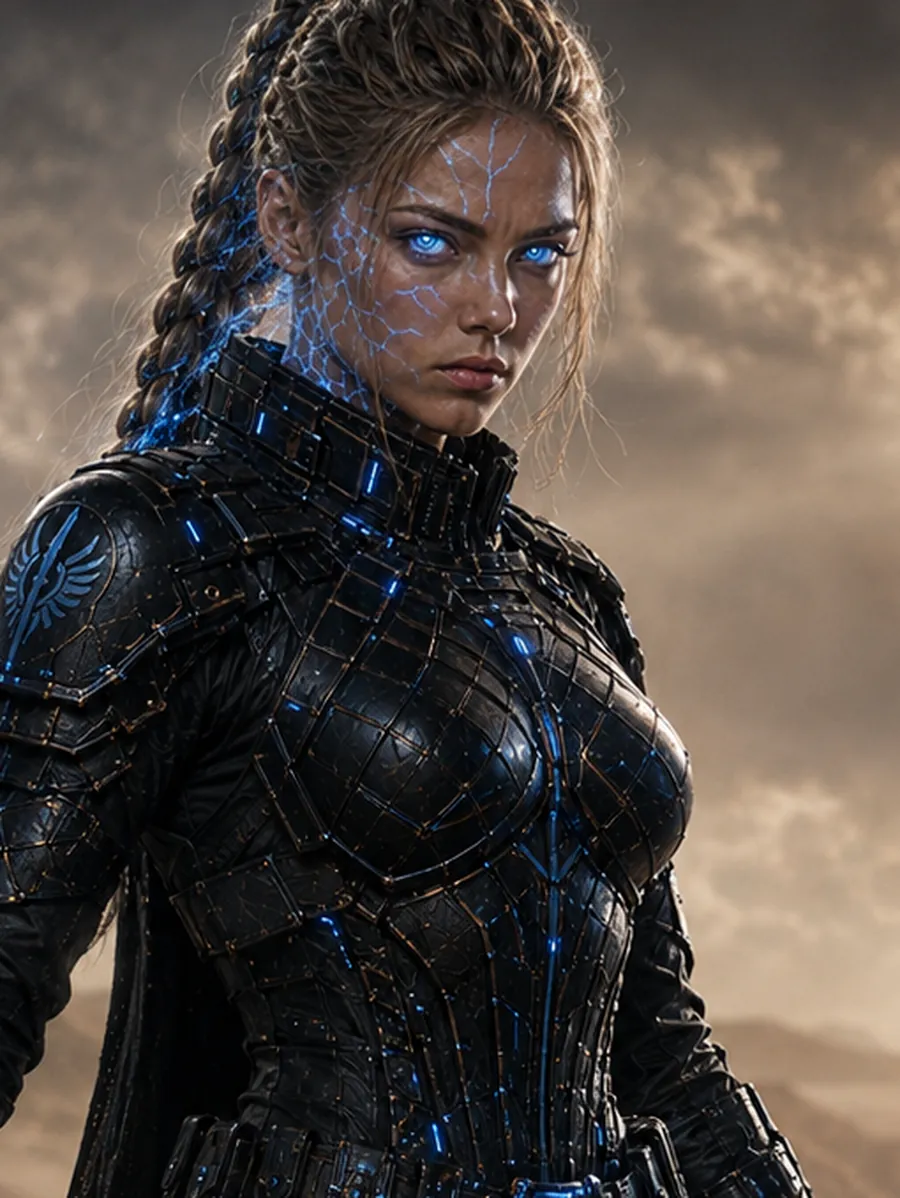
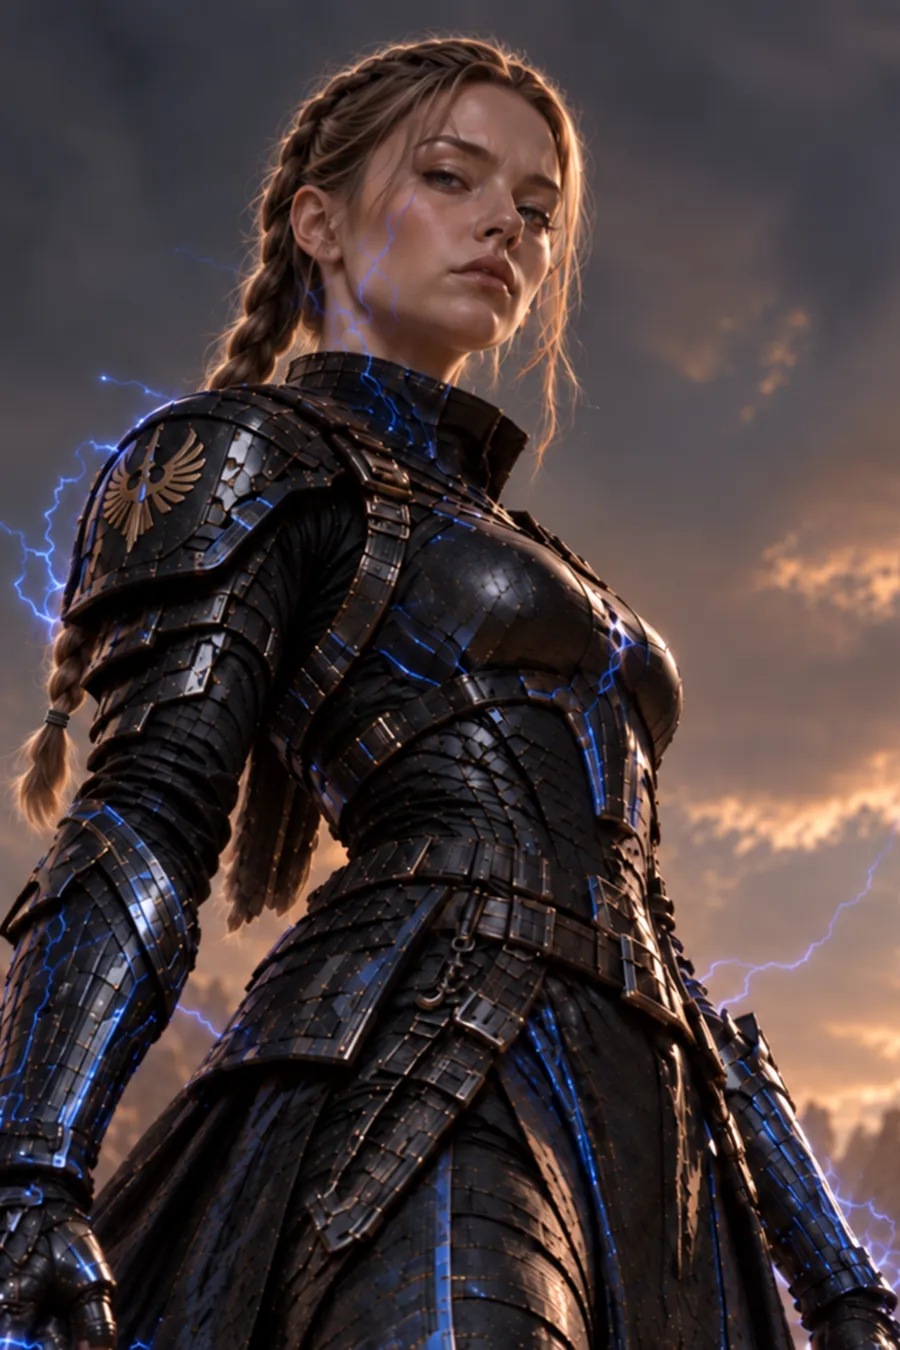
Lina: version nueva, a contrapicado
Entera dejaba la cara en 60 px, por debajo del umbral; el recorte cerrado la
subia a 106 pero se comia los rayos y las espadas. Se aplica un encuadre
intermedio: cara en 83 px, conservando el rayo y la silueta a contrapicado.
Queda en 2:3, la misma proporcion que la tarjeta, asi que se ve entera.
La anterior queda como lina-aurelian.webp.anterior.

diff --git a/content.js b/content.js
@@ -18,7 +18,7 @@ window.BOOK_DATA = {
     { id: "ian", name: "Ian de Vries", file: "assets/personajes/ian-de-vries.webp", w: 900, h: 1200, unlock: 1 },
     { id: "elian", name: "Elian Nahl", file: "assets/personajes/elian-nahl.webp", w: 900, h: 1200, unlock: 1 },
     { id: "kier", name: "Kier de Vries", file: "assets/personajes/kier-de-vries.webp", w: 900, h: 1199, unlock: 1 },
-    { id: "lina", name: "Lina Aurelian", file: "assets/personajes/lina-aurelian.webp", w: 900, h: 1198, unlock: 1 },
+    { id: "lina", name: "Lina Aurelian", file: "assets/personajes/lina-aurelian.webp", w: 900, h: 1350, unlock: 1 },
     { id: "aldren", name: "Aldren Soryn", epithet: "El Heredero de la Luna Bélica", file: "assets/personajes/aldren-soryn.webp", w: 900, h: 1195, unlock: 23 },
     { id: "yseva", name: "Yseva Soryn", epithet: "La Astrónoma de la Guerra", file: "assets/personajes/yseva-soryn.webp", w: 900, h: 1125, unlock: 31 },
     { id: "hastir", name: "Hastir Soryn", epithet: "La Garra Carmesí", file: "assets/personajes/hastir-soryn.webp", w: 900, h: 1174, unlock: 31 }

diff --git a/sw.js b/sw.js
@@ -1,6 +1,6 @@
 // REGLA (heredada del Libro I): todo cambio a index.html, styles.css, content.js,
 // app.js o nieve.js exige subir SHELL_CACHE antes de publicar.
-const SHELL_CACHE = "el-ciclo-inmovil-libro2-shell-v14";
+const SHELL_CACHE = "el-ciclo-inmovil-libro2-shell-v15";
 // Mismo nombre que AUDIO_CACHE en app.js ("Guardar sin conexión"). Si no
 // coinciden, el activate de abajo borra los capitulos guardados. No subirlo sin
 // motivo: vacia lo que cada oyente guardo.
